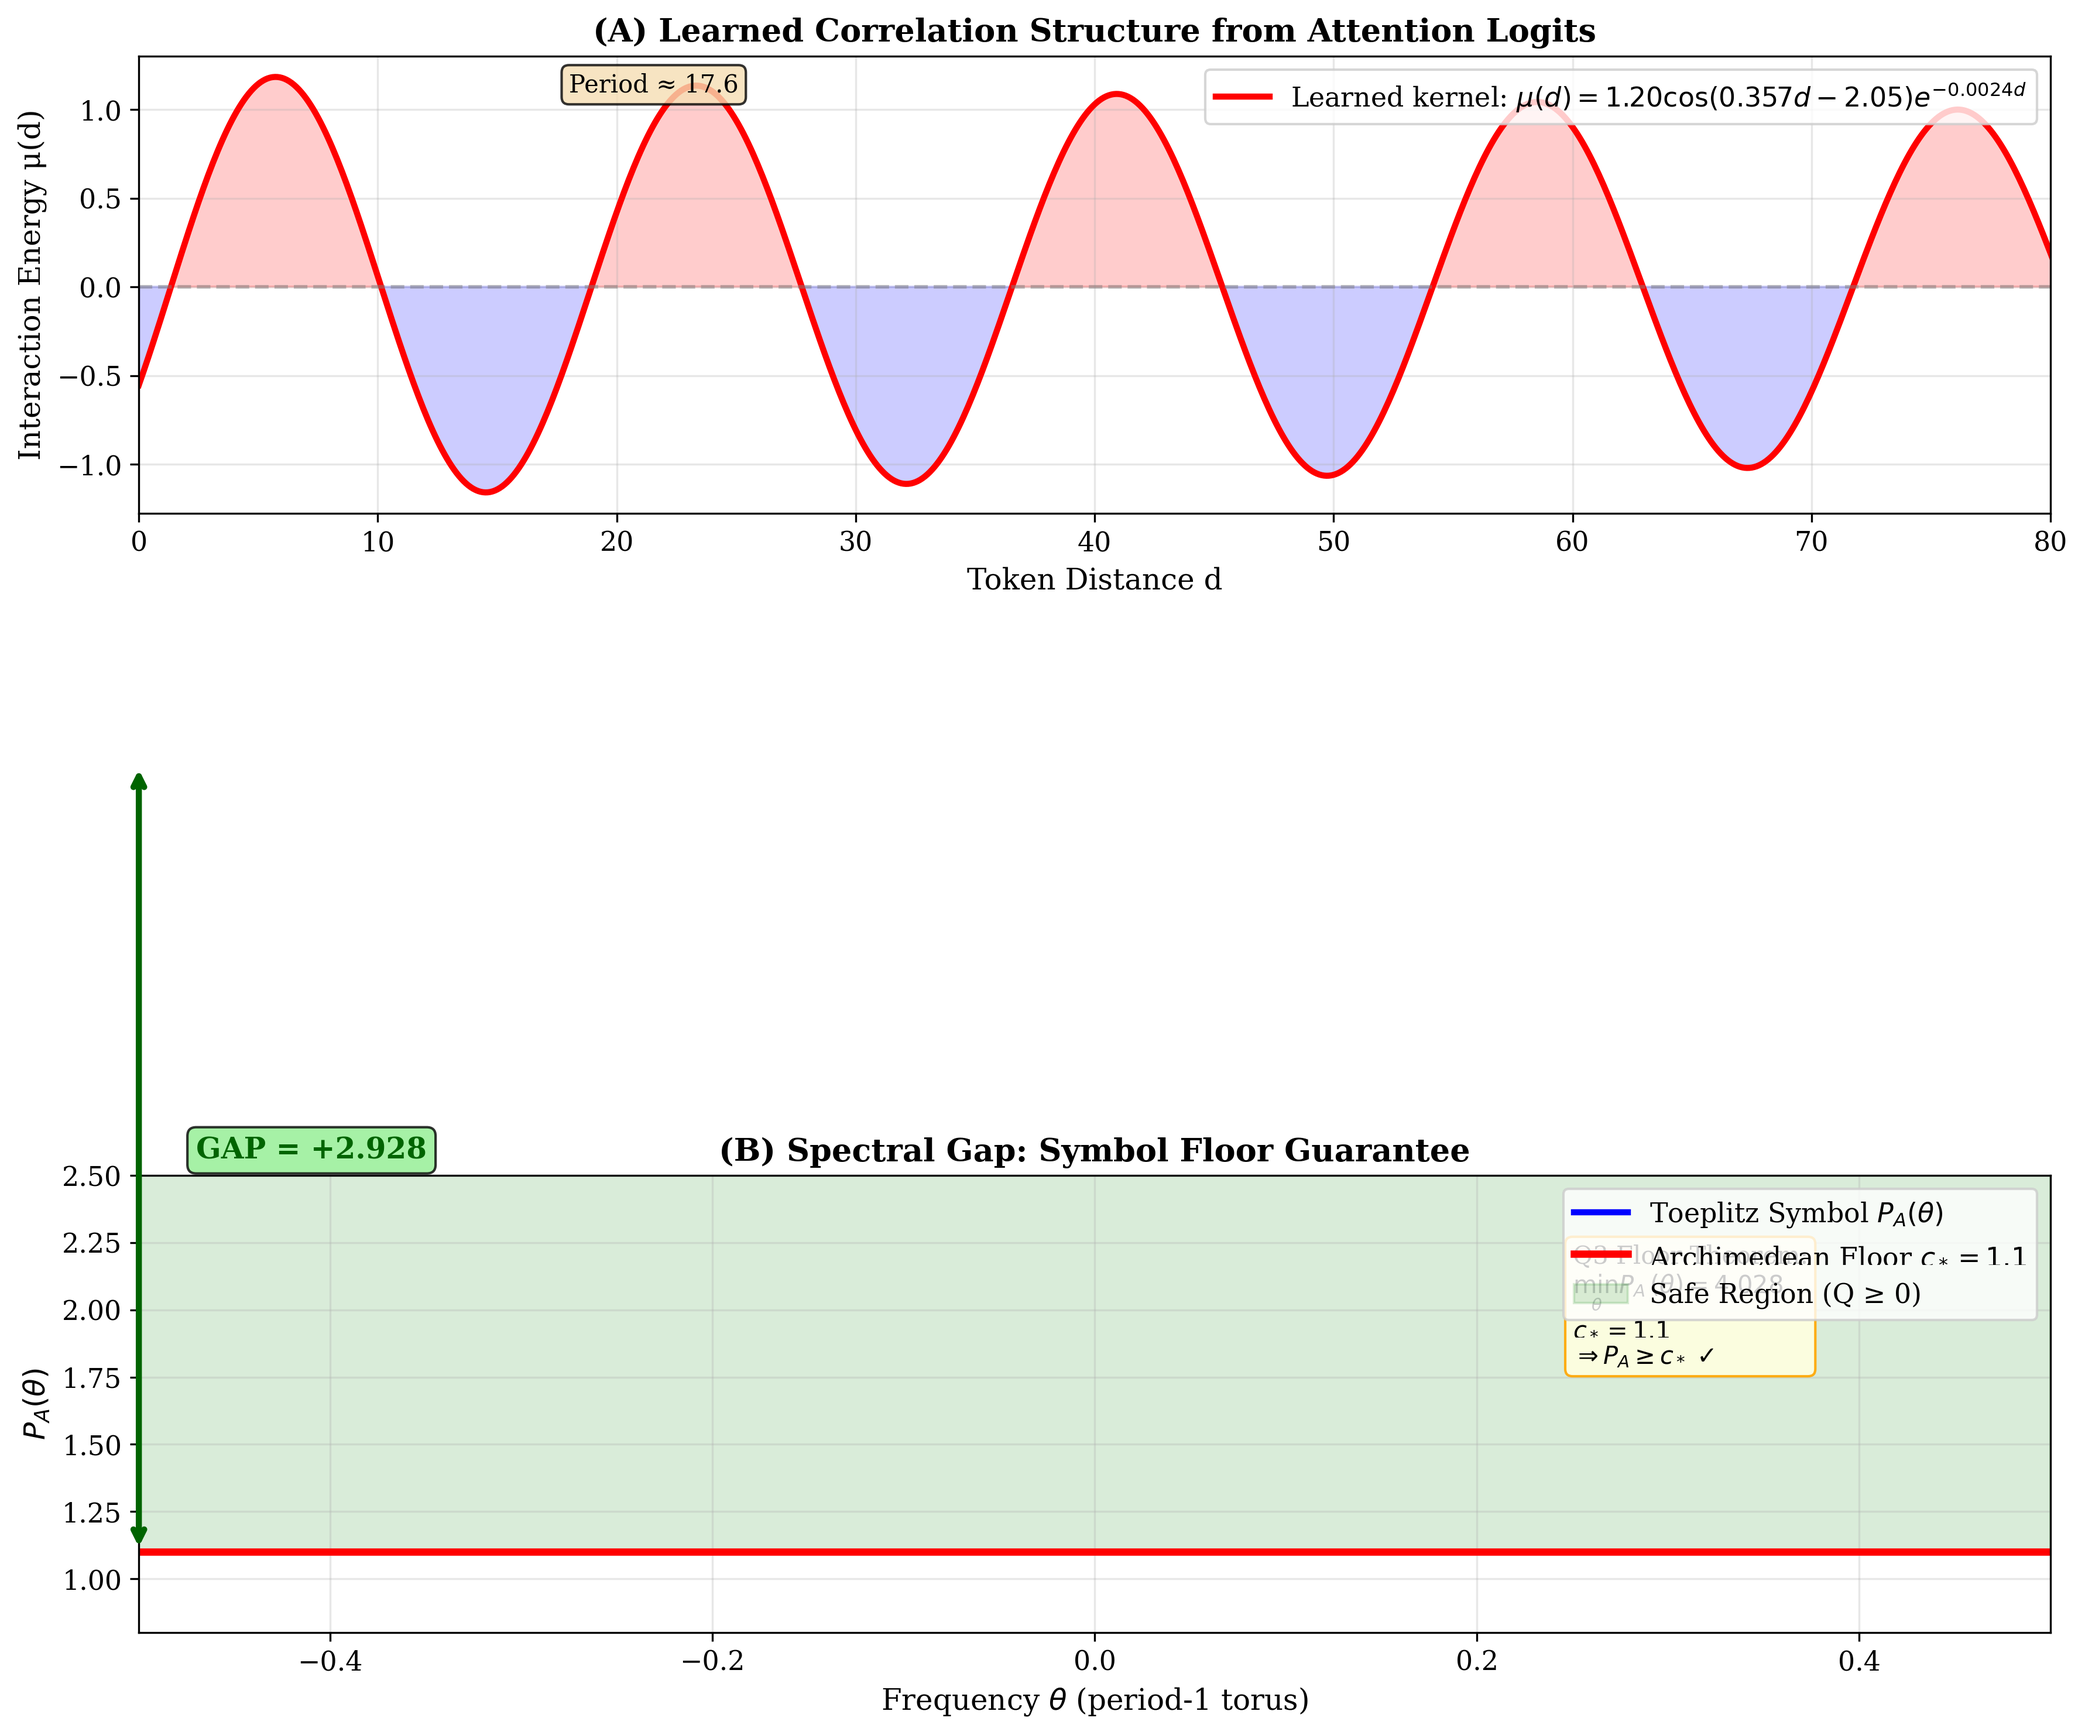
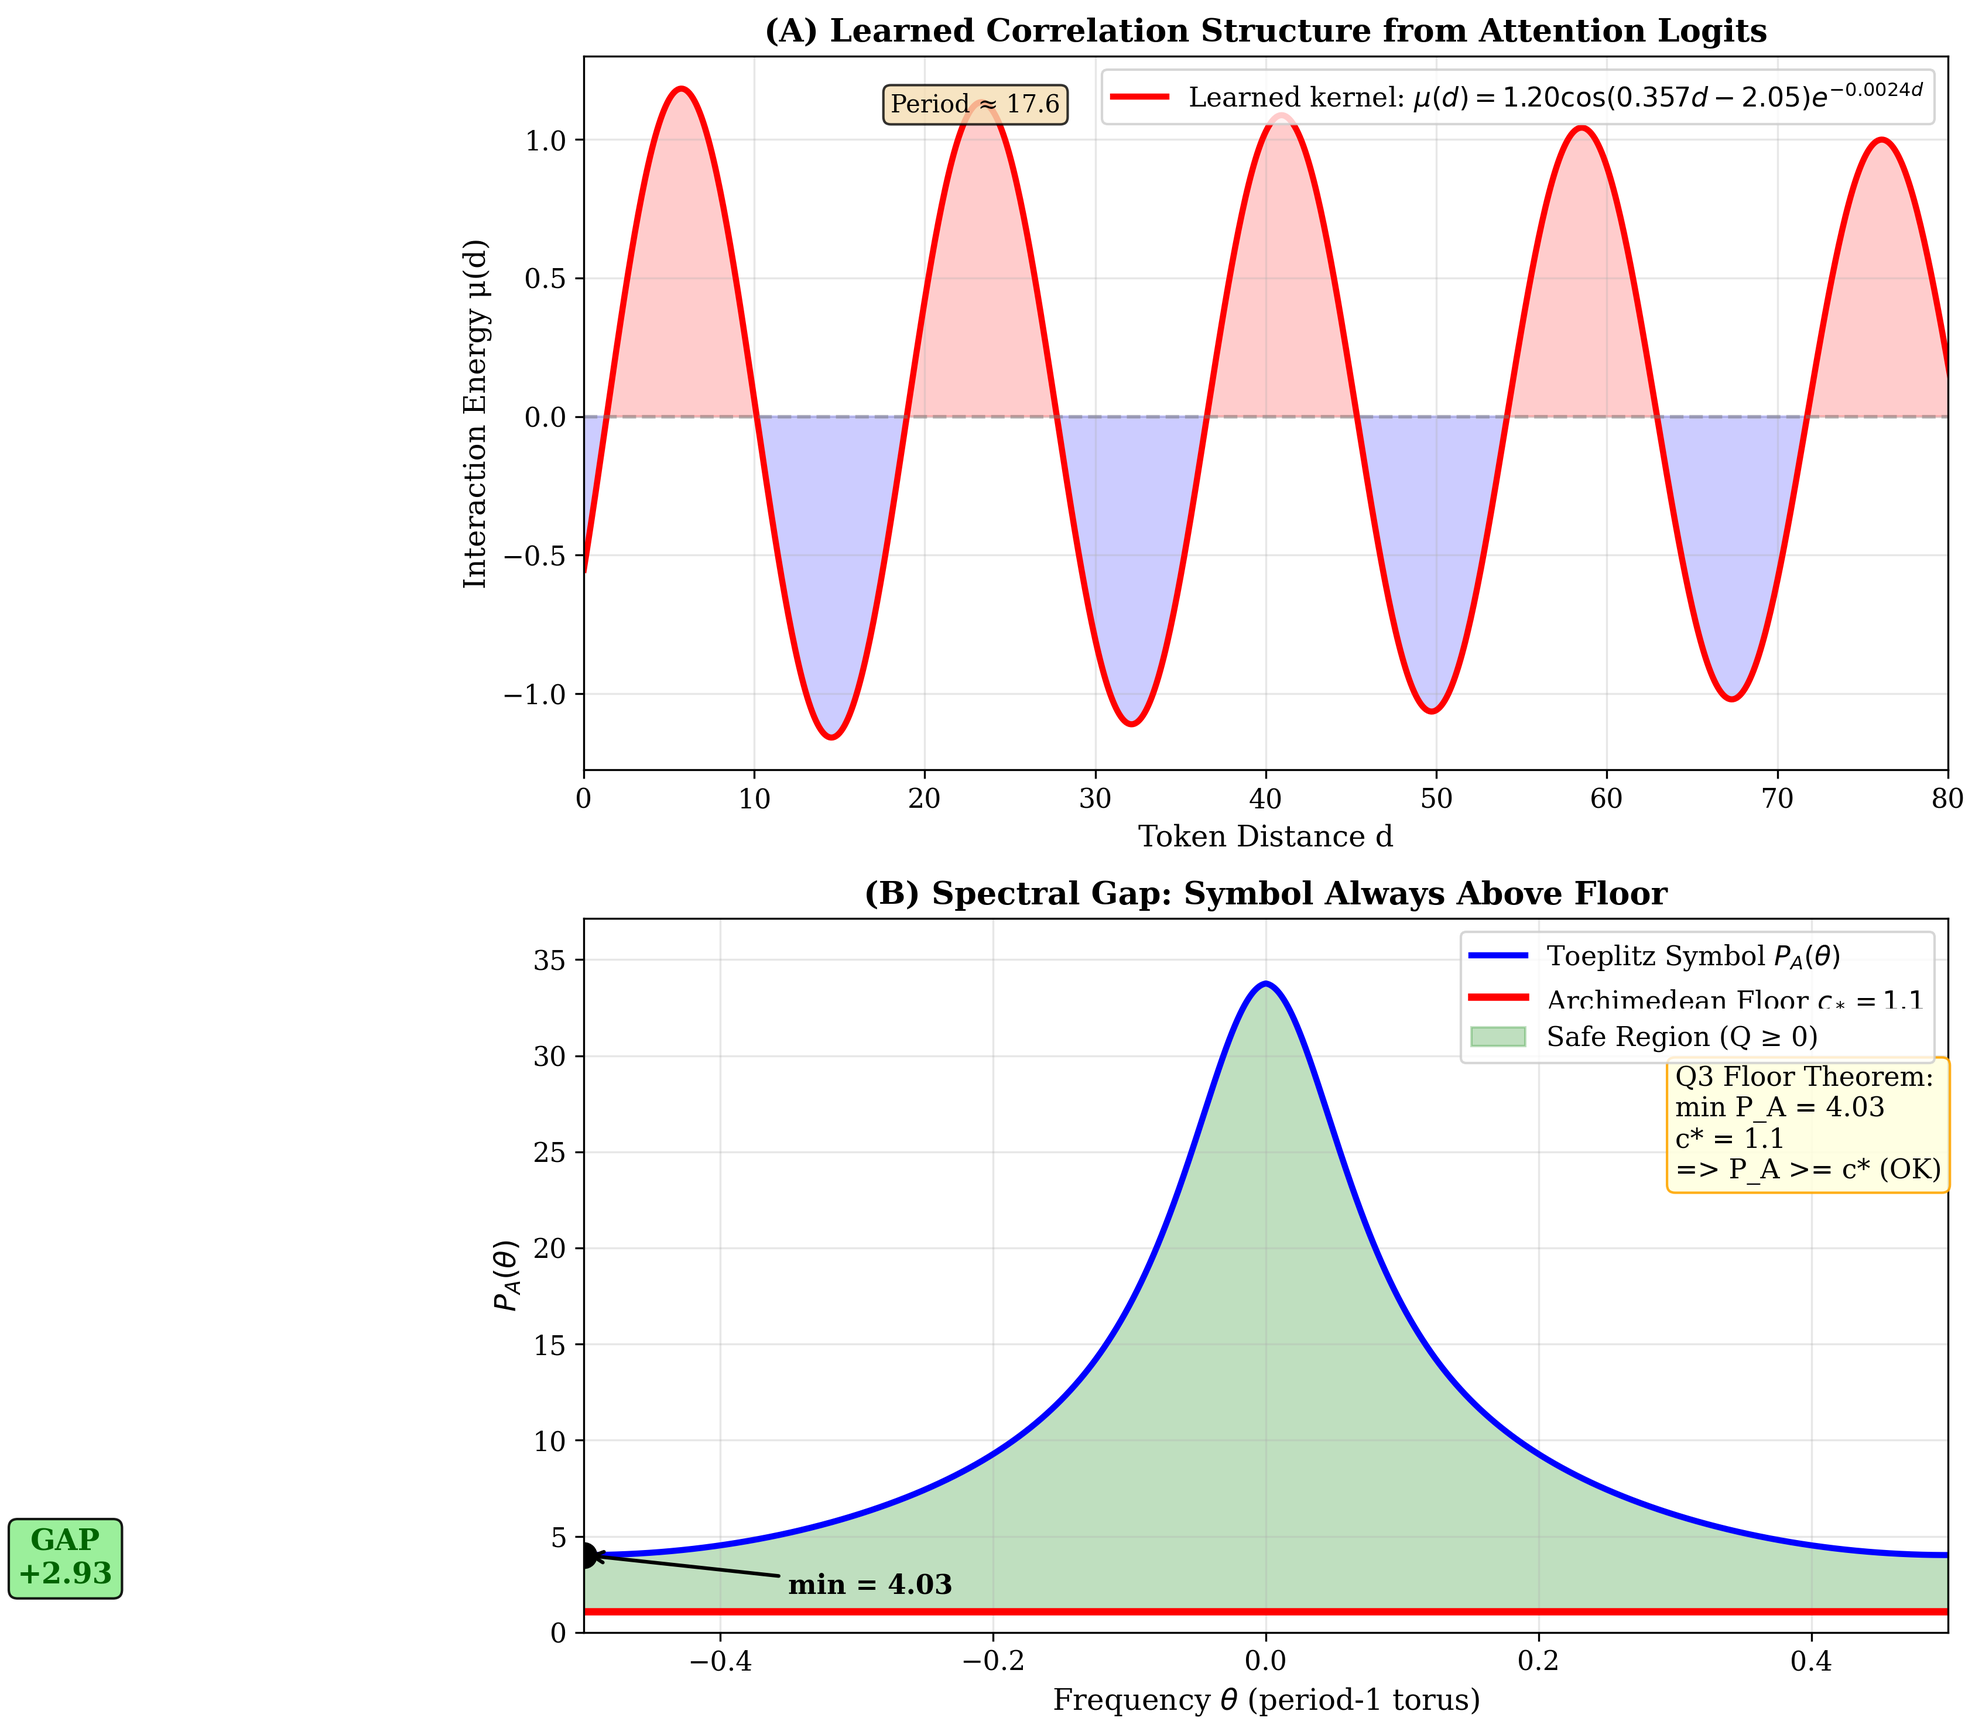
Fix spectral gap plot: show full P_A curve, fix annotations

diff --git a/verify_q3_gap.py b/verify_q3_gap.py
@@ -101,7 +101,8 @@ def run_gap_visualization():
     ax[0].annotate('Period ≈ 17.6', xy=(18, 1.1), fontsize=10,
                    bbox=dict(boxstyle='round', facecolor='wheat', alpha=0.8))
 
-    # --- PANEL B: The Spectral Gap Zoom (Q3 Symbol) ---
+    # --- PANEL B: The Spectral Gap (Q3 Symbol) ---
+    # Show FULL range so the curve is visible
     ax[1].plot(thetas, symbol_values, 'b-', linewidth=2.5,
                label=r'Toeplitz Symbol $P_A(\theta)$')
 
@@ -109,25 +110,33 @@ def run_gap_visualization():
     ax[1].axhline(C_STAR, color='red', linewidth=3, linestyle='-',
                   label=f'Archimedean Floor $c_* = {C_STAR}$')
 
-    # GAP annotation with arrow
-    ax[1].annotate('', xy=(theta_min, C_STAR), xytext=(theta_min, min_symbol),
-                   arrowprops=dict(arrowstyle='<->', color='darkgreen', lw=2.5))
-
-    ax[1].text(theta_min + 0.03, (C_STAR + min_symbol)/2,
-               f'GAP = +{actual_gap:.3f}',
-               color='darkgreen', fontsize=12, fontweight='bold',
-               bbox=dict(boxstyle='round', facecolor='lightgreen', alpha=0.8))
-
-    # Safe zone
+    # Safe zone - fill between floor and curve
     ax[1].fill_between(thetas, C_STAR, symbol_values,
                        where=(symbol_values >= C_STAR),
-                       color='green', alpha=0.15, label='Safe Region (Q ≥ 0)')
+                       color='green', alpha=0.25, label='Safe Region (Q ≥ 0)')
 
-    # Zoom to show gap clearly
-    ax[1].set_ylim(0.8, 2.5)
+    # Mark the minimum point
+    ax[1].plot(theta_min, min_symbol, 'ko', markersize=10, zorder=5)
+    ax[1].annotate(f'min = {min_symbol:.2f}',
+                   xy=(theta_min, min_symbol),
+                   xytext=(theta_min + 0.15, min_symbol - 2),
+                   fontsize=11, fontweight='bold',
+                   arrowprops=dict(arrowstyle='->', color='black', lw=1.5))
+
+    # GAP annotation - vertical arrow from floor to minimum
+    ax[1].annotate('', xy=(theta_min - 0.25, C_STAR), xytext=(theta_min - 0.25, min_symbol),
+                   arrowprops=dict(arrowstyle='<->', color='darkgreen', lw=3))
+
+    ax[1].text(theta_min - 0.38, (C_STAR + min_symbol)/2,
+               f'GAP\n+{actual_gap:.2f}',
+               color='darkgreen', fontsize=12, fontweight='bold', ha='center',
+               bbox=dict(boxstyle='round', facecolor='lightgreen', alpha=0.9))
+
+    # Set ylim to show FULL curve
+    ax[1].set_ylim(0, max(symbol_values) * 1.1)
     ax[1].set_xlim(-0.5, 0.5)
 
-    ax[1].set_title('(B) Spectral Gap: Symbol Floor Guarantee', fontweight='bold')
+    ax[1].set_title('(B) Spectral Gap: Symbol Always Above Floor', fontweight='bold')
     ax[1].set_ylabel(r'$P_A(\theta)$')
     ax[1].set_xlabel(r'Frequency $\theta$ (period-1 torus)')
     ax[1].legend(loc='upper right', frameon=True)
@@ -136,11 +145,11 @@ def run_gap_visualization():
     # Add "PROOF" box
     proof_text = (
         f"Q3 Floor Theorem:\n"
-        f"$\\min_\\theta P_A(\\theta) = {min_symbol:.3f}$\n"
-        f"$c_* = {C_STAR}$\n"
-        f"$\\Rightarrow P_A \\geq c_* \\ \\checkmark$"
+        f"min P_A = {min_symbol:.2f}\n"
+        f"c* = {C_STAR}\n"
+        f"=> P_A >= c* (OK)"
     )
-    ax[1].text(0.25, 1.8, proof_text, fontsize=10,
+    ax[1].text(0.30, max(symbol_values)*0.7, proof_text, fontsize=11,
                bbox=dict(boxstyle='round', facecolor='lightyellow', edgecolor='orange', alpha=0.9))
 
     plt.tight_layout()
